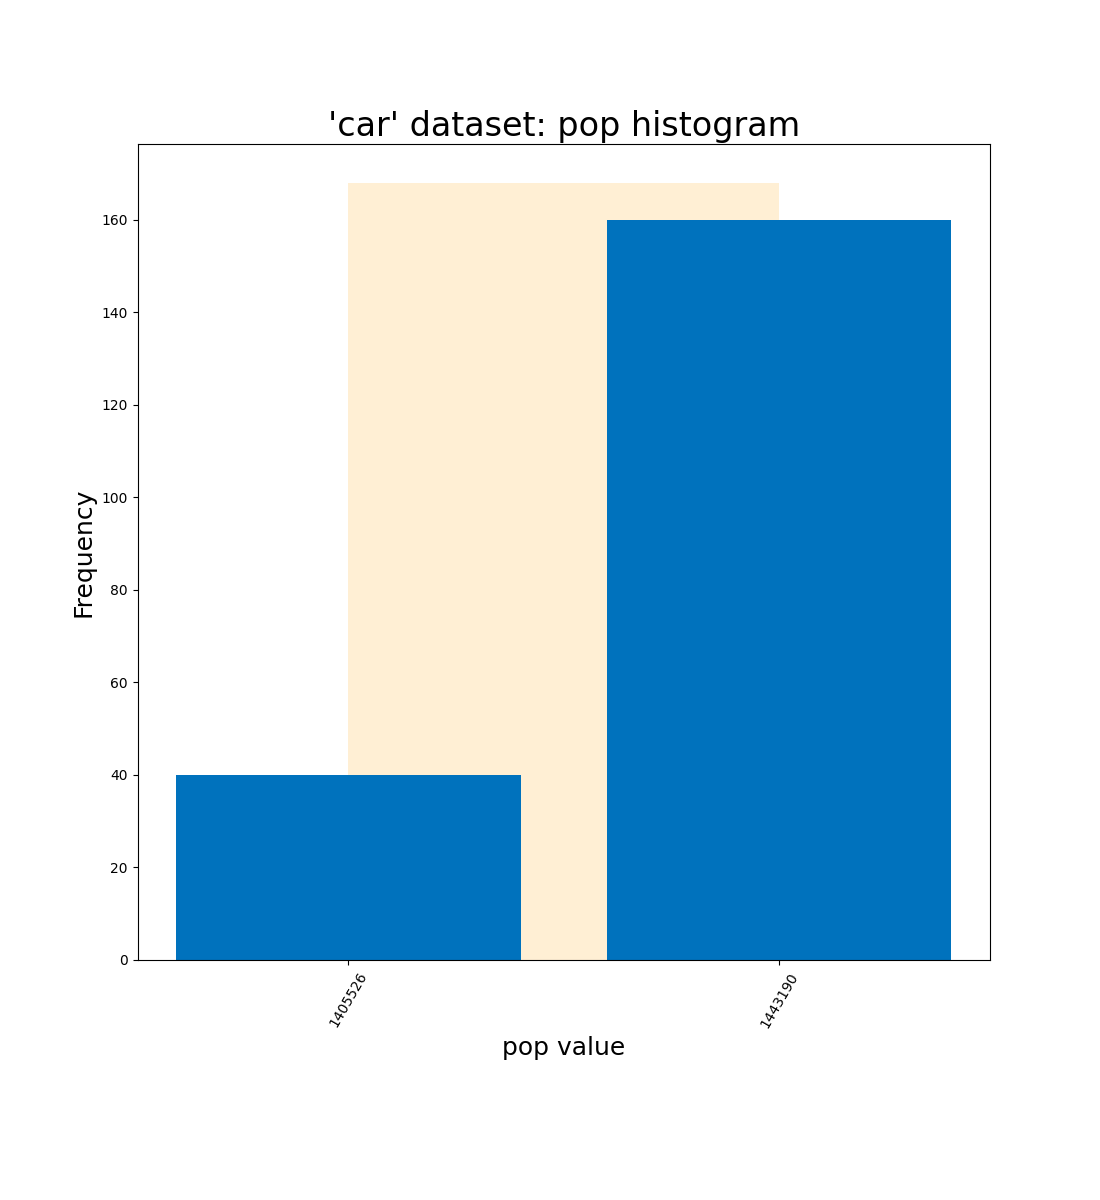
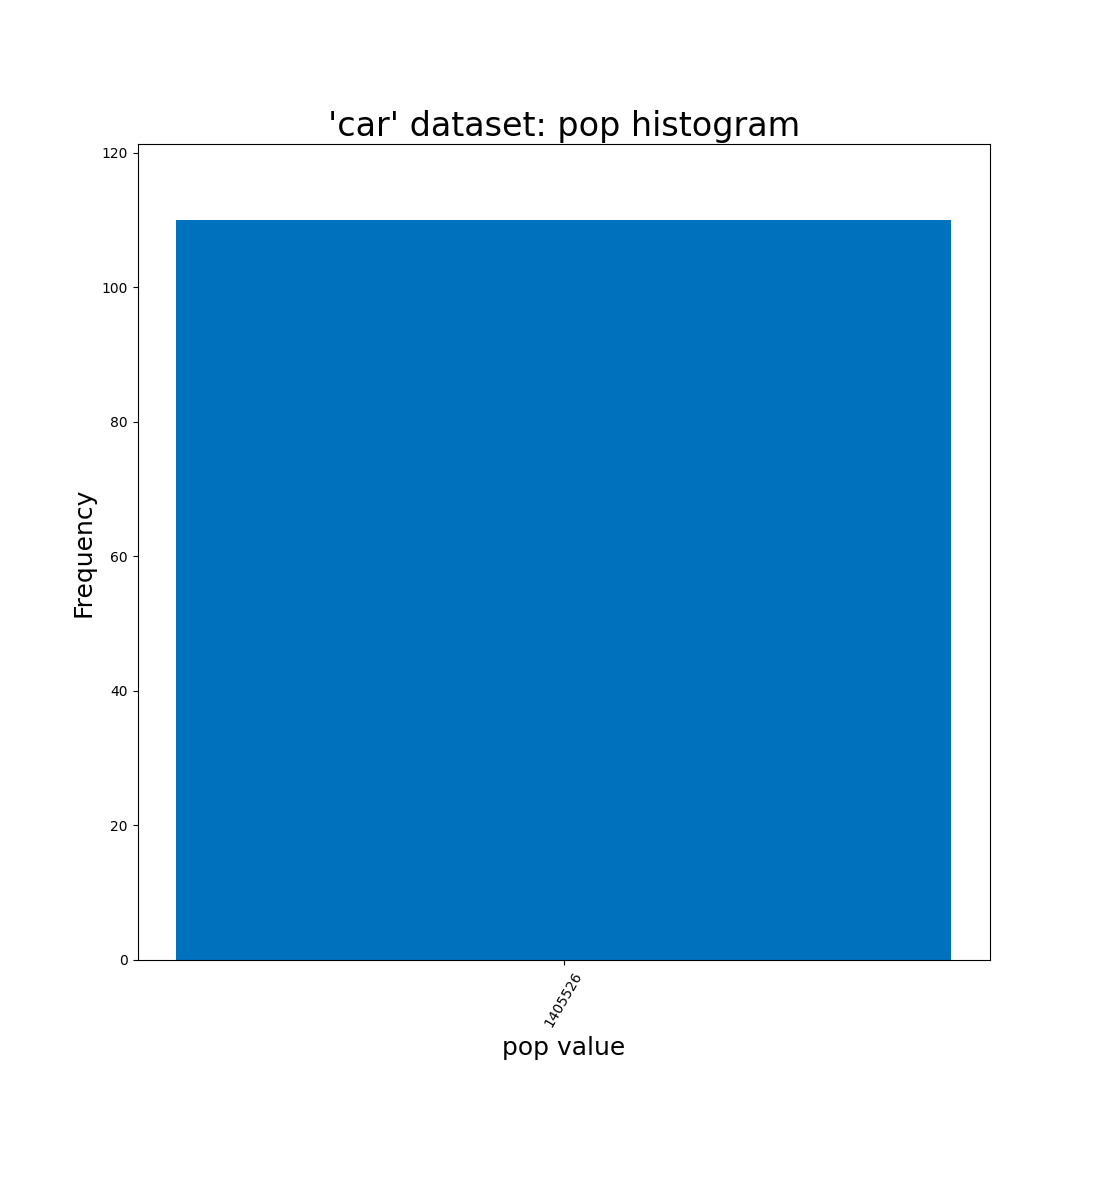
Regenerate figures for noRandom

diff --git a/neural_network/run_analysis_script.py b/neural_network/run_analysis_script.py
@@ -10,7 +10,7 @@ from plot_histogram import *
 ########################################################
 
 paths = (
-    # 'neural_network/trace_car_noRandom/',
+    'neural_network/trace_car_noRandom/',
     # 'neural_network/trace_car_withRandom/',
     # 'neural_network/trace_car/',
     # 'neural_network/trace_car/',
